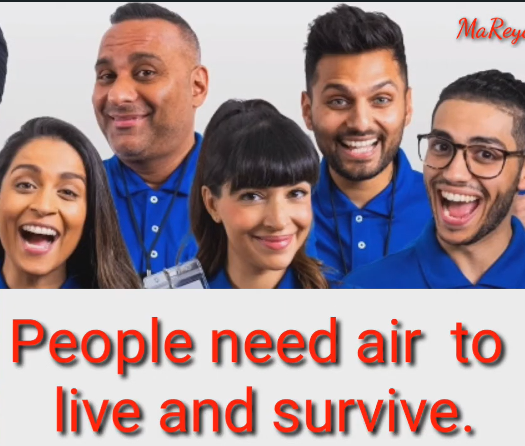
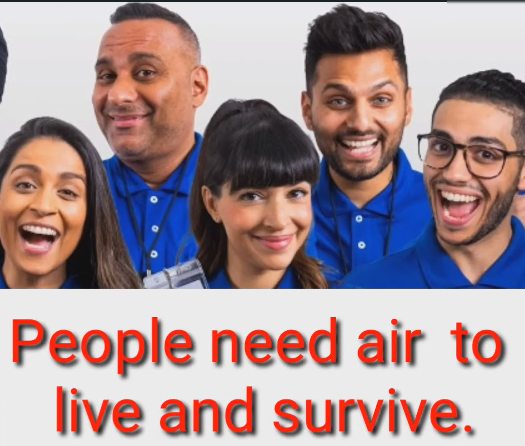
Remove watermarks from air and shield images; label the essentials
essential-air.png: the "MaRey" mark sat on flat grey above the heads. A
crop would have cut into hair and faces, so the corner is filled row by row
from a clean band of the same background instead (gradient preserved).

earth-magnetic-field-shield.png: cropped to rows 10-186, which drops the
"@FindCosmosScience" mark, a tiny top-left logo, and the burnt-in caption.
Nothing is lost: the panel already repeats that caption as text.

Each essentials tile now carries a figcaption. Labels are the five nouns of
the intro sentence, stored byte-for-byte as the document spells them (three
are lowercase there) so verify:copy still matches verbatim; the page
capitalises them with CSS for display only.

scripts/extract-images.py now warns that a blind re-run clobbers the two
processed files.

verify:all passes; tsc clean; next build clean; screenshot-checked on
`next start` (the dev optimizer + headless Chrome pairing kept serving a
stale frame, which is why the production build was used to confirm).

Changed region(s): [[0.8533, 0.0, 1.0, 0.1166]]

diff --git a/app/pemf/page.tsx b/app/pemf/page.tsx
@@ -33,18 +33,25 @@ export default function PemfPage() {
       />
       <Section id="pemf" title={intro.title} titleAs="h1" intro={intro.paragraphs[0]}>
         <ul className="grid grid-cols-2 gap-5 sm:grid-cols-5">
-          {essentials.map(({ image }) => (
+          {essentials.map(({ label, image }) => (
             <li key={image.src} className="rounded-3xl border border-rule bg-white p-4">
-              {/* The five photos have different aspect ratios (roughly 1:1 to
-                  5:4), so each sits whole inside a fixed 4:3 slot; otherwise
-                  the row's tiles end up at five different heights. */}
-              <Image
-                src={image.src}
-                alt={image.alt}
-                width={400}
-                height={300}
-                className="aspect-[4/3] w-full object-contain"
-              />
+              <figure>
+                {/* The five photos have different aspect ratios (roughly 1:1 to
+                    5:4), so each sits whole inside a fixed 4:3 slot; otherwise
+                    the row's tiles end up at five different heights. */}
+                <Image
+                  src={image.src}
+                  alt={image.alt}
+                  width={400}
+                  height={300}
+                  className="aspect-[4/3] w-full object-contain"
+                />
+                {/* `capitalize` is display-only: the stored label keeps the
+                    document's own casing so verify:copy matches verbatim. */}
+                <figcaption className="mt-3 text-center font-bold capitalize text-ink">
+                  {label}
+                </figcaption>
+              </figure>
             </li>
           ))}
         </ul>

diff --git a/lib/content/pemf.ts b/lib/content/pemf.ts
@@ -9,12 +9,15 @@ export const intro = {
   ],
 };
 
+// Labels are the five nouns of the intro sentence above, byte-for-byte as the
+// document spells them (three are lowercase there), so verify:copy still sees
+// verbatim text. The page capitalises them with CSS for display only.
 export const essentials = [
-  { image: images.essentialAir },
-  { image: images.essentialFood },
-  { image: images.essentialWater },
-  { image: images.essentialSunshine },
-  { image: images.essentialEarthField },
+  { label: "Air", image: images.essentialAir },
+  { label: "food", image: images.essentialFood },
+  { label: "water", image: images.essentialWater },
+  { label: "sunshine", image: images.essentialSunshine },
+  { label: "Earth’s Magnetic Field Energy", image: images.essentialEarthField },
 ];
 
 export const essentialForHealth: { heading: string; panels: Panel[] } = {

diff --git a/scripts/extract-images.py b/scripts/extract-images.py
@@ -4,6 +4,13 @@
 The other 30 images in the document are already byte-identical to files in
 public/images/ and are left alone. Run from the repo root:
     python3 scripts/extract-images.py
+
+CAUTION: two committed files are post-processed after extraction and will be
+clobbered by a blind re-run (2026-08-20):
+  essential-air.png                 third-party watermark painted out, top right
+  earth-magnetic-field-shield.png   cropped to rows 10-186 to drop a watermark
+                                    and the burnt-in caption (the caption is
+                                    repeated as text in lib/content/pemf.ts)
 """
 import zipfile
 
